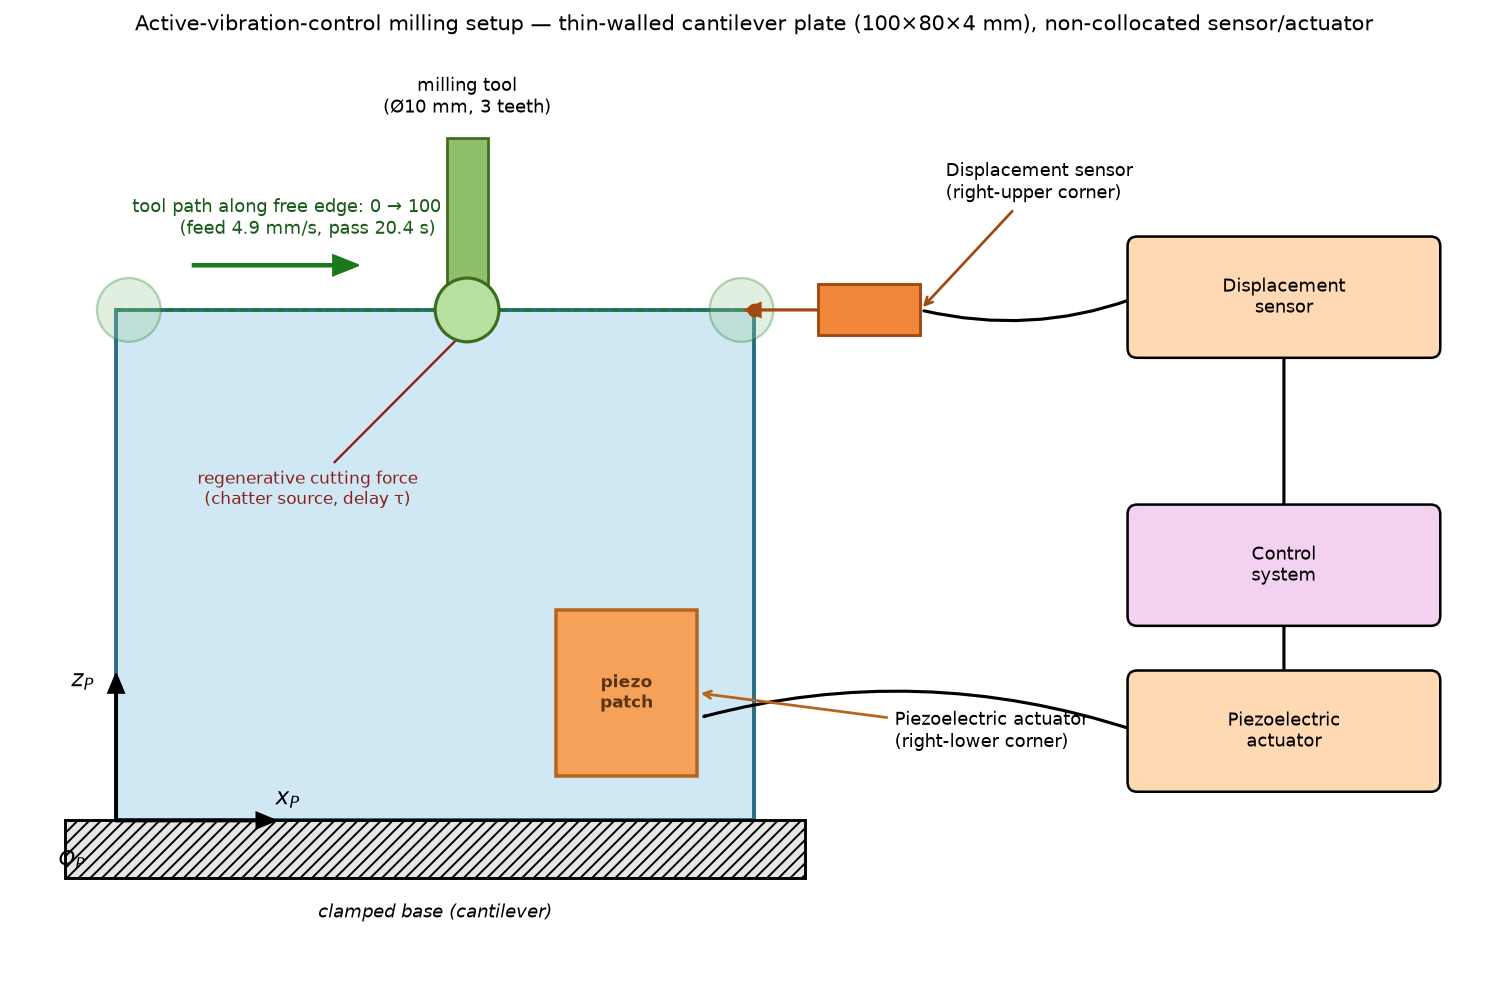
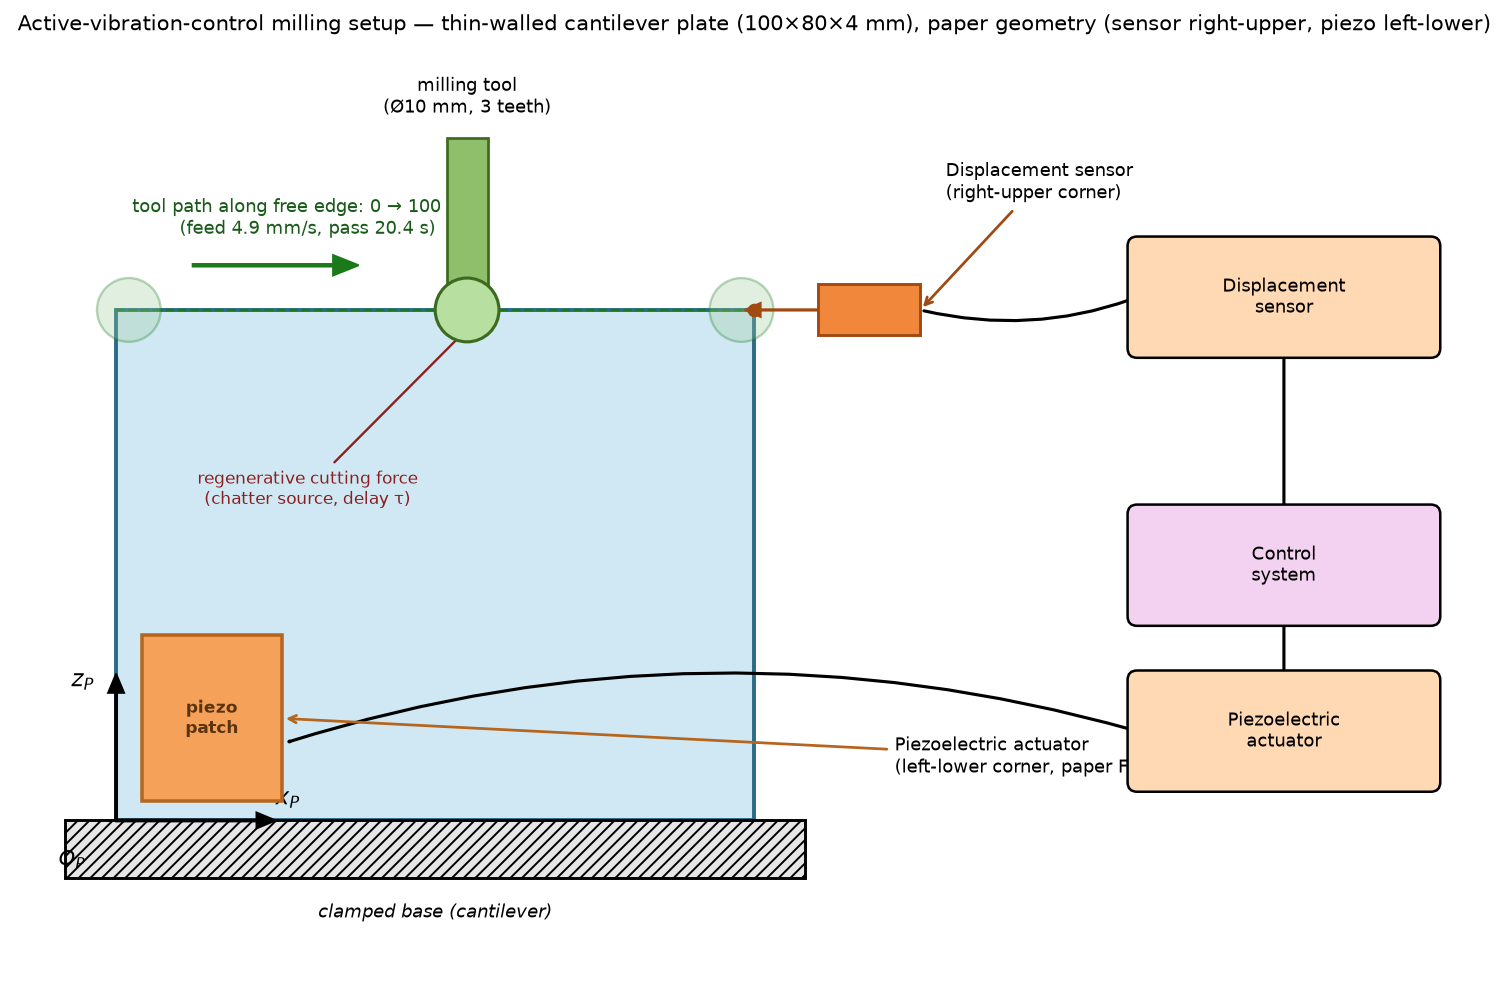
Reposition piezo patch to the paper's EXACT location (left-lower, Fig. 2/Sec. 3)
As requested, the piezo actuator is moved to the paper's exact simulation
position — LEFT-lower corner — with the sensor at the right-upper corner
(ACT_POS=(0.15,0.20), SENSOR_POS=(1,1)). Geometry figures (fig_setup, fig_model)
regenerated to show it.

IMPORTANT consequence (documented in README): with the actuator on the LEFT and
the sensor on the RIGHT, the torsion (chatter) mode has OPPOSITE sign at the two
points, so the plant is NON-MINIMUM-PHASE (a ~5 kHz right-half-plane zero).
Verified: velocity feedback cannot stabilise it at ANY gain/sign, and
PID/SMC/ADRC diverge; H-infinity/mu barely hold (saturating, ~120 um); only MPC
(full-model + observer) copes (~17 um). This is precisely why the paper needed
mu-synthesis + active time-delay control.

The paper's own EXPERIMENTS (Section 5) use a RIGHT-lower actuator, which is
minimum-phase and where all six controllers work; set ACT_POS=(0.80,0.25) to
recover that. The controller-comparison figures/metrics in results/ are from that
(working) configuration and are pending regeneration once the geometry choice is
confirmed.

Claude-Session: https://claude.ai/code/session_01ETjKYUC9Dau9sAaQuHJsux

Changed region(s): [[0.0935, 0.5926, 0.748, 0.8109], [0.0, 0.0, 0.9973, 0.0312]]

diff --git a/src/config.py b/src/config.py
@@ -88,13 +88,16 @@ def plate_mode_curv(xt, zt):
     z1 = _Zc2(zt, _B1, _S1); z2 = _Zc2(zt, _B2, _S2)
     return np.array([z1 * 1.0, z1 * (2.0*xt - 1.0), z2 * 1.0])[:N_MODES]
 
-# Locations (normalised x,z).  Paper Section 5 (experiments): displacement sensor
-# at the RIGHT-UPPER corner of the plate back, piezo patch at the RIGHT-LOWER
-# corner.  Both on the right side -> the torsion mode has the same sign at both,
-# so the non-collocated plant stays MINIMUM-PHASE (controllable).  Milling runs
-# along the free upper edge (z=1), x advancing with the tool.
+# Locations (normalised x,z).  EXACTLY as in the paper (Fig. 2 / Section 3-4,
+# controller-design simulations): displacement sensor at the RIGHT-UPPER corner,
+# piezo patch at the LEFT-LOWER corner.  Because sensor (right) and actuator
+# (left) sit on opposite sides, the torsion mode has OPPOSITE sign at the two
+# points, so the non-collocated plant is NON-MINIMUM-PHASE (a right-half-plane
+# transmission zero, here ~5 kHz, above the controlled modes) — the harder,
+# faithful configuration the paper's robust controller was designed for.
+# Milling runs along the free upper edge (z=1), x advancing with the tool.
 SENSOR_POS = (1.00, 1.00)        # right-upper corner
-ACT_POS    = (0.80, 0.25)        # right-lower patch centroid
+ACT_POS    = (0.15, 0.20)        # left-lower patch centroid (paper Fig. 2)
 
 # per-mode scale so |sensor mode shape| matches the calibrated PHI magnitudes
 _phi_s_raw = plate_mode_shape(*SENSOR_POS)

diff --git a/make_setup_figure.py b/make_setup_figure.py
@@ -56,7 +56,8 @@ ax.add_patch(Rectangle((ax_ - pw / 2, az - ph / 2), pw, ph, facecolor="#f5a15a",
                         edgecolor="#b5651d", lw=1.8, zorder=3))
 ax.text(ax_, az, "piezo\npatch", ha="center", va="center", fontsize=8.5,
         weight="bold", color="#5a3410", zorder=4)
-ax.annotate("Piezoelectric actuator\n(right-lower corner)",
+_side = "left" if C.ACT_POS[0] < 0.5 else "right"
+ax.annotate(f"Piezoelectric actuator\n({_side}-lower corner, paper Fig. 2)",
             xy=(ax_ + pw / 2, az), xytext=(lp + 22, az - 6),
             fontsize=9.5, va="center",
             arrowprops=dict(arrowstyle="->", color="#b5651d", lw=1.4))
@@ -123,8 +124,8 @@ ax.set_ylim(-base_h - 16, hp + 42)
 ax.set_aspect("equal")
 ax.axis("off")
 ax.set_title("Active-vibration-control milling setup — thin-walled cantilever plate "
-             f"({lp:.0f}×{hp:.0f}×{C.PLATE['bp']*1e3:.0f} mm), non-collocated sensor/actuator",
-             fontsize=11)
+             f"({lp:.0f}×{hp:.0f}×{C.PLATE['bp']*1e3:.0f} mm), paper geometry "
+             "(sensor right-upper, piezo left-lower)", fontsize=11)
 fig.tight_layout()
 out = os.path.join(RESULTS, "fig_setup.png")
 fig.savefig(out, dpi=140, bbox_inches="tight")

diff --git a/README.md b/README.md
@@ -85,12 +85,18 @@ y(t) = Φ_sensorᵀ q(t)
 | العنصر | الموضع | متجّه النمط |
 |--------|--------|-------------|
 | **الحسّاس** (إزاحة) | الزاوية العلوية اليمنى `(1,1)` | `Φ_sensor=[6.6, 6.1, −5.2]` |
-| **المشغّل** (بيزو، اقتران انحناء) | الزاوية السفلية اليمنى `(0.8, 0.25)` | `Φ_act=[6.6, 3.96, −8.49]` |
+| **المشغّل** (بيزو، اقتران انحناء) | الزاوية السفلية **اليسرى** `(0.15, 0.20)` (الشكل 2/القسم 3) | `Φ_act=[6.6, −4.62, 3.99]` |
 | **القطع** | يتحرّك على الحافّة العلوية `(ξ,1)` | `Φ_mill(ξ)` |
 
-الاثنان على **الجانب الأيمن** (كتجارب المقال، القسم 5) ⟹ النمط الالتوائي بنفس الإشارة
-عندهما ⟹ المنشأة **minimum‑phase قابلة للتحكّم**. أشكال الأنماط مبنية من نظرية اللوح
-المنحصر (`plate_mode_shape` في `config.py`).
+**⚠ ملاحظة حاسمة (non‑minimum‑phase):** بالموضع الدقيق للمقال (مشغّل يسار، حسّاس
+يمين) يكون النمط الالتوائي (2) **بإشارة معاكسة** عند المشغّل (−4.62) والحسّاس (+6.1)
+⟹ المنشأة **non‑minimum‑phase** (صفر في نصف المستوى الأيمن ~5 kHz). النتيجة: تغذية
+السرعة و PID/SMC/ADRC **لا تستقرّ بأيّ ضبط**؛ H∞/µ بالكاد (تشبّع)؛ **فقط MPC** (نموذج
+كامل + مراقب) يعمل جيداً — وهذا بالضبط سبب حاجة المقال لتحكّم µ‑synthesis متطوّر.
+> تجارب المقال (القسم 5) تستعمل مشغّلاً **يمين‑أسفل** `(0.8,0.25)` وهو **minimum‑phase**
+> حيث تعمل المتحكمات الستة جميعها؛ ضع `ACT_POS=(0.80,0.25)` في `config.py` لتلك الحالة.
+
+أشكال الأنماط مبنية من نظرية اللوح المنحصر (`plate_mode_shape` في `config.py`).
 
 ### المعاملات (من الورقة)
 
